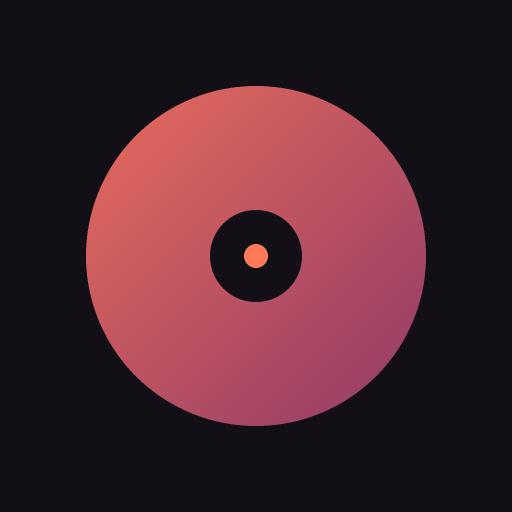
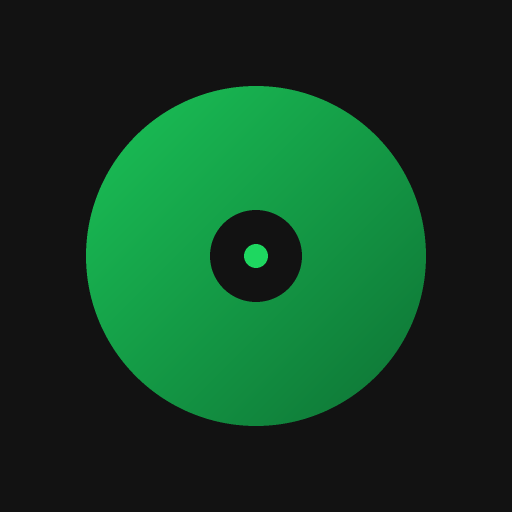
Spotify-style look: dark theme, green accent, Inter font, colour washes

diff --git a/index.html b/index.html
@@ -3,31 +3,26 @@
 <head>
 <meta charset="utf-8">
 <meta name="viewport" content="width=device-width,initial-scale=1,viewport-fit=cover">
-<meta name="theme-color" content="#120f17">
+<meta name="theme-color" content="#121212">
 <title>Η Δισκοθήκη μας</title>
 <link rel="manifest" href="manifest.webmanifest">
 <link rel="icon" href="icon.svg" type="image/svg+xml">
 <link rel="apple-touch-icon" href="icon-192.png">
 <link rel="preconnect" href="https://fonts.googleapis.com">
-<link rel="stylesheet" href="https://fonts.googleapis.com/css2?family=Commissioner:wght@400;500;600;700&family=Piazzolla:ital,opsz,wght@1,8..30,600;1,8..30,800&display=swap">
+<link rel="stylesheet" href="https://fonts.googleapis.com/css2?family=Inter:wght@400;500;600;700;800;900&display=swap">
 <style>
-/* Layout: one column library (header → search → playlists → track list), fixed mini-player at the bottom, full-screen "now playing" sheet on tap. Dark-first, night-bus mood. */
+/* Layout: one column library (header → search → playlists → track list), fixed mini-player at the bottom, full-screen "now playing" sheet on tap. Spotify-style: near-black, green accent, heavy sans, colour wash at the top. */
 :root {
-  --bg: #120f17; --surface: #1c1823; --surface-2: #272130; --line: #342c3f;
-  --fg: #f3eef7; --muted: #a69cb3; --accent: #ff7a59; --accent-ink: #1b0d08;
-  --accent-soft: rgba(255,122,89,.16); --danger: #ff5d73;
-  --font-display: "Piazzolla", Georgia, "Times New Roman", serif;
-  --font-body: "Commissioner", "Segoe UI", Roboto, Arial, sans-serif;
-  --r: 10px;
+  --bg: #121212; --surface: #181818; --surface-2: #282828; --line: #333333;
+  --fg: #ffffff; --muted: #b3b3b3; --accent: #1ed760; --accent-ink: #000000;
+  --accent-soft: rgba(30,215,96,.14); --danger: #f15e6c;
+  --hero: #3b2d78;
+  --font-display: "Inter", "Segoe UI", Roboto, Arial, sans-serif;
+  --font-body: "Inter", "Segoe UI", Roboto, Arial, sans-serif;
+  --r: 6px;
   color-scheme: dark;
 }
-@media (prefers-color-scheme: light) {
-  :root {
-    --bg: #f7f4f9; --surface: #ffffff; --surface-2: #efe9f3; --line: #e0d8e6;
-    --fg: #1d1724; --muted: #6d6279; --accent: #e2522f; --accent-ink: #ffffff;
-    --accent-soft: rgba(226,82,47,.12); --danger: #c8233c; color-scheme: light;
-  }
-}
+.hero-wash { position: absolute; top: 0; left: 0; right: 0; height: 360px; background: linear-gradient(to bottom, var(--hero), var(--bg)); z-index: -1; transition: background .4s; pointer-events: none; }
 * { box-sizing: border-box; }
 [hidden] { display: none !important; }
 html { -webkit-text-size-adjust: 100%; }
@@ -36,14 +31,14 @@ img { max-width: 100%; }
 button, input, textarea { font: inherit; color: inherit; }
 button { cursor: pointer; }
 :focus-visible { outline: 2px solid var(--accent); outline-offset: 2px; }
-.wrap { max-width: 760px; margin: 0 auto; padding-inline: 16px; padding-block: calc(20px + env(safe-area-inset-top, 0px)) 150px; }
+.wrap { position: relative; isolation: isolate; max-width: 760px; margin: 0 auto; padding-inline: 16px; padding-block: calc(20px + env(safe-area-inset-top, 0px)) 150px; }
 
 header.top { display: flex; align-items: flex-end; justify-content: space-between; gap: 12px; flex-wrap: wrap; }
-.eyebrow { font-size: 12px; letter-spacing: .12em; text-transform: uppercase; color: var(--muted); font-weight: 600; }
-h1 { font-family: var(--font-display); font-style: italic; font-weight: 800; font-size: clamp(30px, 8vw, 46px); line-height: 1.02; margin: 4px 0 0; text-wrap: balance; }
+.eyebrow { font-size: 12px; letter-spacing: .02em; color: var(--fg); font-weight: 700; }
+h1 { font-family: var(--font-display); font-weight: 900; letter-spacing: -.04em; font-size: clamp(32px, 9vw, 52px); line-height: 1.02; margin: 4px 0 0; text-wrap: balance; }
 .stats { color: var(--muted); font-size: 13px; margin-top: 6px; font-variant-numeric: tabular-nums; }
 
-.btn { display: inline-flex; align-items: center; gap: 8px; border: 0; border-radius: 999px; padding: 10px 18px; font-weight: 600; background: var(--surface-2); }
+.btn { display: inline-flex; align-items: center; gap: 8px; border: 0; border-radius: 999px; padding: 11px 22px; font-weight: 700; background: var(--surface-2); }
 .btn.primary { background: var(--accent); color: var(--accent-ink); }
 .btn.ghost { background: transparent; border: 1px solid var(--line); }
 .btn.danger { background: transparent; color: var(--danger); border: 1px solid var(--danger); }
@@ -51,17 +46,19 @@ h1 { font-family: var(--font-display); font-style: italic; font-weight: 800; fon
 .btn svg { width: 18px; height: 18px; }
 
 .toolbar { display: flex; gap: 10px; margin: 22px 0 10px; align-items: center; flex-wrap: wrap; }
-.search { flex: 1 1 220px; min-width: 0; display: flex; align-items: center; gap: 8px; background: var(--surface); border: 1px solid var(--line); border-radius: 999px; padding: 8px 14px; }
+.search { flex: 1 1 220px; min-width: 0; display: flex; align-items: center; gap: 8px; background: rgba(255,255,255,.1); border: 0; border-radius: 6px; padding: 9px 12px; }
 .search input { border: 0; background: transparent; outline: none; width: 100%; }
 .search svg { width: 18px; height: 18px; color: var(--muted); flex: none; }
-.chip { border: 1px solid var(--line); background: transparent; border-radius: 999px; padding: 7px 14px; font-size: 13px; font-weight: 600; color: var(--muted); display: inline-flex; align-items: center; gap: 7px; white-space: nowrap; flex: none; }
-.chip[aria-pressed="true"] { background: var(--fg); color: var(--bg); border-color: var(--fg); }
+.chip { border: 0; background: rgba(255,255,255,.1); border-radius: 999px; padding: 8px 14px; font-size: 13px; font-weight: 500; color: var(--fg); display: inline-flex; align-items: center; gap: 7px; white-space: nowrap; flex: none; }
+.chip[aria-pressed="true"] { background: var(--accent); color: var(--accent-ink); }
+.chip:hover { background: rgba(255,255,255,.16); }
+.chip[aria-pressed="true"]:hover { background: #3be477; }
 .chip .dot { width: 8px; height: 8px; border-radius: 50%; flex: none; }
-.chip.add { border-style: dashed; }
+.chip.add { background: transparent; border: 1px solid rgba(255,255,255,.3); }
 .lists { display: flex; gap: 8px; overflow-x: auto; padding-block: 4px; scrollbar-width: none; margin-inline: -16px; padding-inline: 16px; }
 .lists::-webkit-scrollbar { display: none; }
 .plhead { display: flex; align-items: center; justify-content: space-between; gap: 12px; margin-top: 16px; flex-wrap: wrap; }
-.plhead h2 { font-family: var(--font-display); font-style: italic; font-weight: 800; font-size: 28px; margin: 0; overflow-wrap: anywhere; min-width: 0; }
+.plhead h2 { font-family: var(--font-display); font-weight: 900; letter-spacing: -.04em; font-size: clamp(30px, 8vw, 44px); line-height: 1.05; margin: 0; overflow-wrap: anywhere; min-width: 0; }
 .plhead .sub { color: var(--muted); font-size: 13px; }
 
 .playall { display: flex; align-items: center; gap: 14px; margin: 18px 0 8px; }
@@ -72,12 +69,11 @@ h1 { font-family: var(--font-display); font-style: italic; font-weight: 800; fon
 
 ol.tracks { list-style: none; margin: 8px 0 0; padding: 0; display: grid; gap: 2px; }
 .track { display: grid; grid-template-columns: minmax(0,1fr) auto auto; align-items: center; gap: 8px; padding: 6px 4px 6px 8px; border-radius: var(--r); }
-.track:hover { background: var(--surface); }
-.track.current { background: var(--accent-soft); }
+.track:hover, .track:active { background: rgba(255,255,255,.07); }
 .track .hit { border: 0; background: transparent; padding: 0; text-align: left; display: grid; grid-template-columns: 24px 48px minmax(0,1fr); align-items: center; gap: 12px; min-width: 0; }
 .track .num { color: var(--muted); font-size: 13px; text-align: center; font-variant-numeric: tabular-nums; }
 .track.current .num { color: var(--accent); }
-.cover { width: 48px; height: 48px; border-radius: 6px; background: var(--surface-2); display: grid; place-items: center; overflow: hidden; font-family: var(--font-display); font-style: italic; font-weight: 800; color: #fff; font-size: 20px; }
+.cover { width: 48px; height: 48px; border-radius: 4px; background: var(--surface-2); display: grid; place-items: center; overflow: hidden; font-family: var(--font-display); font-weight: 900; letter-spacing: -.04em; color: #fff; font-size: 20px; }
 .cover img { width: 100%; height: 100%; object-fit: cover; display: block; }
 .meta { min-width: 0; }
 .meta .t { font-weight: 600; white-space: nowrap; overflow: hidden; text-overflow: ellipsis; }
@@ -89,30 +85,33 @@ ol.tracks { list-style: none; margin: 8px 0 0; padding: 0; display: grid; gap: 2
 .iconbtn svg { width: 20px; height: 20px; }
 .iconbtn.on { color: var(--accent); }
 
-.empty { border: 1px dashed var(--line); border-radius: 14px; padding: 28px 20px; text-align: center; color: var(--muted); margin-top: 18px; display: grid; gap: 12px; justify-items: center; }
+.empty { border: 0; background: var(--surface); border-radius: 8px; padding: 28px 20px; text-align: center; color: var(--muted); margin-top: 18px; display: grid; gap: 12px; justify-items: center; }
 .empty strong { color: var(--fg); font-size: 17px; }
 .foot { color: var(--muted); font-size: 12px; margin-top: 28px; display: flex; gap: 10px; flex-wrap: wrap; align-items: center; }
 .foot button { border: 0; background: none; color: var(--muted); text-decoration: underline; padding: 0; font-size: 12px; }
 
 .mini { position: fixed; left: 0; right: 0; bottom: 0; padding: 8px 10px calc(8px + env(safe-area-inset-bottom, 0px)); z-index: 20; }
-.mini-inner { max-width: 760px; margin: 0 auto; background: var(--surface-2); border-radius: 12px; display: grid; grid-template-columns: minmax(0,1fr) auto; gap: 8px; align-items: center; padding: 8px 8px 10px 8px; position: relative; overflow: hidden; box-shadow: 0 10px 30px rgba(0,0,0,.35); }
+.mini-inner { max-width: 760px; margin: 0 auto; background: var(--mini, #2a2a2a); border-radius: 8px; display: grid; grid-template-columns: minmax(0,1fr) auto; gap: 8px; align-items: center; padding: 8px 8px 10px 8px; transition: background .4s; position: relative; overflow: hidden; box-shadow: 0 10px 30px rgba(0,0,0,.35); }
 .mini .open { border: 0; background: transparent; padding: 0; text-align: left; display: grid; grid-template-columns: 44px minmax(0,1fr); gap: 12px; align-items: center; min-width: 0; }
 .mini .cover { width: 44px; height: 44px; font-size: 18px; }
 .mini .ctrls { display: flex; align-items: center; gap: 2px; }
 .mini .ctrls .iconbtn { color: var(--fg); }
 .mini .ctrls .iconbtn.on { color: var(--accent); }
-.mini-prog { position: absolute; left: 8px; right: 8px; bottom: 3px; height: 2px; background: var(--line); border-radius: 2px; }
+.mini-prog { background: rgba(255,255,255,.25) !important; position: absolute; left: 8px; right: 8px; bottom: 3px; height: 2px; background: var(--line); border-radius: 2px; }
 .mini-prog i { display: block; height: 100%; width: 0; background: var(--fg); border-radius: 2px; }
 
 .sheet { position: fixed; inset: 0; z-index: 30; background: var(--bg); overflow-y: auto; padding: calc(12px + env(safe-area-inset-top, 0px)) 16px calc(24px + env(safe-area-inset-bottom, 0px)); }
-.sheet::before { content: ""; position: absolute; inset: 0 0 auto 0; height: 70%; background: linear-gradient(to bottom, var(--glow, var(--accent-soft)), transparent); opacity: .55; pointer-events: none; }
+.sheet::before { content: ""; position: fixed; inset: 0; background: linear-gradient(to bottom, var(--glow, #3b2d78) 0%, var(--bg) 85%); pointer-events: none; }
 .sheet-in { position: relative; max-width: 460px; margin: 0 auto; display: grid; gap: 18px; }
 .sheet-top { display: flex; justify-content: space-between; align-items: center; }
 .np-cover { width: 100%; height: auto; aspect-ratio: 1; max-width: 100%; border-radius: 12px; font-size: clamp(64px, 22vw, 120px); box-shadow: 0 24px 60px rgba(0,0,0,.45); }
 .np-row { display: flex; align-items: center; justify-content: space-between; gap: 12px; }
-.np-title { font-family: var(--font-display); font-style: italic; font-weight: 800; font-size: 26px; line-height: 1.1; margin: 0; overflow-wrap: anywhere; }
+.np-title { font-family: var(--font-display); font-weight: 800; letter-spacing: -.02em; font-size: 24px; line-height: 1.1; margin: 0; overflow-wrap: anywhere; }
 .np-artist { color: var(--muted); margin-top: 4px; }
-.scrub input { width: 100%; accent-color: var(--fg); margin: 0; }
+.scrub input { width: 100%; margin: 0; -webkit-appearance: none; appearance: none; height: 4px; border-radius: 2px; background: linear-gradient(to right, var(--fg) var(--pct, 0%), rgba(255,255,255,.25) var(--pct, 0%)); outline: none; }
+.scrub input::-webkit-slider-thumb { -webkit-appearance: none; width: 12px; height: 12px; border-radius: 50%; background: var(--fg); border: 0; }
+.scrub input::-moz-range-thumb { width: 12px; height: 12px; border-radius: 50%; background: var(--fg); border: 0; }
+.scrub input:active { background: linear-gradient(to right, var(--accent) var(--pct, 0%), rgba(255,255,255,.25) var(--pct, 0%)); }
 .times { display: flex; justify-content: space-between; color: var(--muted); font-size: 12px; font-variant-numeric: tabular-nums; margin-top: 4px; }
 .transport { display: flex; justify-content: space-between; align-items: center; }
 .transport .iconbtn { width: 48px; height: 48px; color: var(--fg); }
@@ -128,19 +127,19 @@ ol.tracks { list-style: none; margin: 8px 0 0; padding: 0; display: grid; gap: 2
 @media (min-width: 640px) { .modal { place-items: center; padding: 24px; } }
 .panel { background: var(--surface); width: 100%; max-width: 520px; border-radius: 16px 16px 0 0; padding: 20px 16px calc(20px + env(safe-area-inset-bottom, 0px)); display: grid; gap: 14px; max-height: 92vh; overflow-y: auto; }
 @media (min-width: 640px) { .panel { border-radius: 16px; padding: 24px; } }
-.panel h2 { font-family: var(--font-display); font-style: italic; font-weight: 800; font-size: 24px; margin: 0; }
+.panel h2 { font-family: var(--font-display); font-weight: 800; letter-spacing: -.02em; font-size: 24px; margin: 0; }
 .field { display: grid; gap: 6px; }
 .field > label { font-size: 13px; font-weight: 600; color: var(--muted); }
 .field input[type=text], .field textarea { background: var(--bg); border: 1px solid var(--line); border-radius: 8px; padding: 10px 12px; width: 100%; }
 .field textarea { min-height: 90px; resize: vertical; }
-.drop { border: 1.5px dashed var(--line); border-radius: 12px; padding: 18px; text-align: center; color: var(--muted); display: grid; gap: 6px; }
+.drop { border: 1.5px dashed rgba(255,255,255,.25); border-radius: 8px; padding: 18px; text-align: center; color: var(--muted); display: grid; gap: 6px; }
 .drop strong { color: var(--fg); }
 .coverpick { display: flex; align-items: center; gap: 12px; }
 .coverpick .cover { width: 64px; height: 64px; }
 .row-end { display: flex; justify-content: flex-end; gap: 10px; flex-wrap: wrap; }
 .row-split { display: flex; justify-content: space-between; gap: 10px; flex-wrap: wrap; }
 .checks { display: flex; flex-wrap: wrap; gap: 8px; }
-.check { display: inline-flex; align-items: center; gap: 8px; border: 1px solid var(--line); border-radius: 999px; padding: 6px 12px; font-size: 13px; font-weight: 600; cursor: pointer; }
+.check { display: inline-flex; align-items: center; gap: 8px; border: 1px solid rgba(255,255,255,.2); border-radius: 999px; padding: 6px 12px; font-size: 13px; font-weight: 600; cursor: pointer; }
 .check input { accent-color: var(--accent); margin: 0; }
 .check:has(input:checked) { border-color: var(--accent); background: var(--accent-soft); }
 .prog { height: 6px; background: var(--bg); border-radius: 6px; overflow: hidden; }
@@ -158,6 +157,7 @@ ol.tracks { list-style: none; margin: 8px 0 0; padding: 0; display: grid; gap: 2
 </head>
 <body>
 <div class="wrap">
+  <div class="hero-wash" aria-hidden="true"></div>
   <header class="top">
     <div>
       <div class="eyebrow">Δικά της τραγούδια</div>

diff --git a/app.js b/app.js
@@ -128,6 +128,8 @@ function render() {
   renderLists();
   const list = $("tracks"); list.innerHTML = "";
   const vis = visibleSongs(), curPl = plById(view);
+  // Colour wash at the top, per view (like a playlist page)
+  document.documentElement.style.setProperty("--hero", curPl ? `hsl(${hash(curPl.id) % 360} 45% 32%)` : view === "fav" ? "#4527a0" : "#2d4a3a");
   const total = songs.reduce((a, s) => a + (s.duration || 0), 0);
   $("stats").textContent = songs.length
     ? `${songs.length} ${songs.length === 1 ? "τραγούδι" : "τραγούδια"} · ${Math.round(total / 60)} λεπτά μουσικής`
@@ -228,14 +230,16 @@ function renderPlayer() {
   $("repeatBtn").setAttribute("aria-label", repeat === "off" ? "Επανάληψη: όχι" : repeat === "all" ? "Επανάληψη: όλα" : "Επανάληψη: ένα");
   const note = (current.note || "").trim();
   $("npNote").hidden = !note; $("npNoteText").textContent = note;
-  $("sheet").style.setProperty("--glow", `hsl(${hash(current.id) % 360} 70% 50% / .5)`);
+  const hue = hash(current.id) % 360;
+  $("sheet").style.setProperty("--glow", `hsl(${hue} 40% 30%)`);
+  document.documentElement.style.setProperty("--mini", `hsl(${hue} 30% 20%)`);
 }
 let seeking = false, lastSave = 0;
 function renderTime() {
   const d = isFinite(audio.duration) ? audio.duration : (current && current.duration) || 0;
   const c = audio.currentTime || 0;
   $("miniProg").style.width = d ? (c / d * 100) + "%" : "0";
-  if (!seeking) $("seek").value = d ? Math.round(c / d * 1000) : 0;
+  if (!seeking) { $("seek").value = d ? Math.round(c / d * 1000) : 0; $("seek").style.setProperty("--pct", ($("seek").value / 10) + "%"); }
   $("tCur").textContent = fmt(c); $("tDur").textContent = fmt(d);
 }
 audio.addEventListener("timeupdate", () => {
@@ -249,7 +253,7 @@ audio.addEventListener("play", () => { renderPlayer(); render(); });
 audio.addEventListener("pause", () => { renderPlayer(); render(); });
 audio.addEventListener("ended", () => next(true));
 audio.addEventListener("loadedmetadata", renderTime);
-$("seek").addEventListener("input", () => { seeking = true; $("tCur").textContent = fmt($("seek").value / 1000 * (audio.duration || 0)); });
+$("seek").addEventListener("input", () => { seeking = true; $("seek").style.setProperty("--pct", ($("seek").value / 10) + "%"); $("tCur").textContent = fmt($("seek").value / 1000 * (audio.duration || 0)); });
 $("seek").addEventListener("change", () => { const d = audio.duration || 0; if (d) audio.currentTime = $("seek").value / 1000 * d; seeking = false; });
 
 async function setMediaSession() {

diff --git a/sw.js b/sw.js
@@ -1,5 +1,5 @@
 // Caches the app shell so it opens without internet. Songs live in IndexedDB, not here.
-const CACHE = "diskothiki-v1";
+const CACHE = "diskothiki-v2";
 const SHELL = ["./", "index.html", "app.js", "manifest.webmanifest", "icon.svg", "icon-192.png", "icon-512.png"];
 self.addEventListener("install", e => { e.waitUntil(caches.open(CACHE).then(c => c.addAll(SHELL)).then(() => self.skipWaiting())); });
 self.addEventListener("activate", e => {
